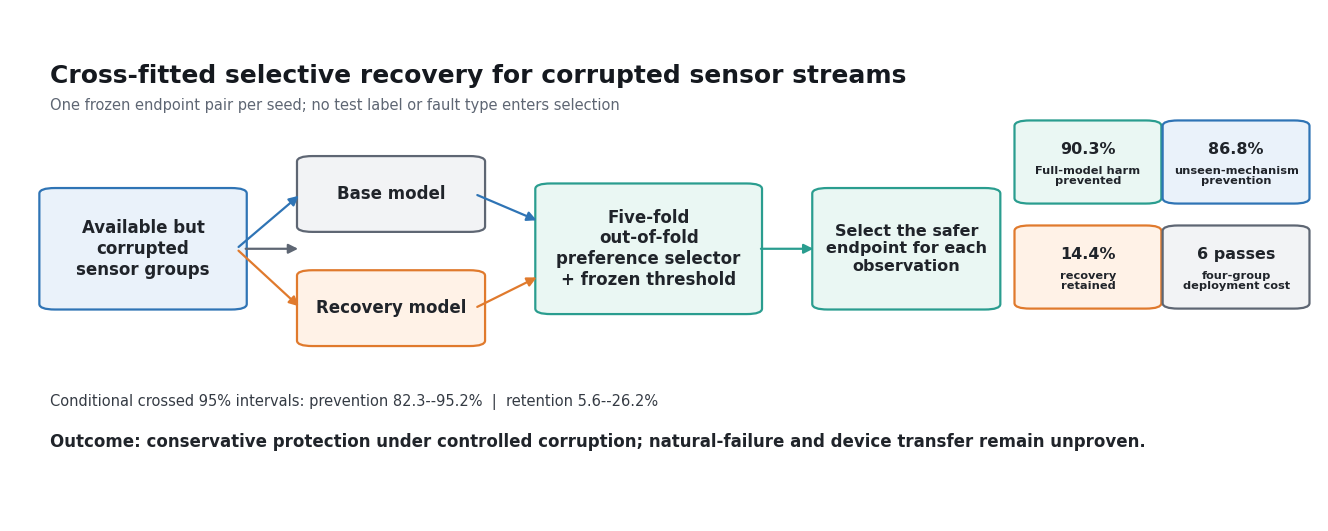
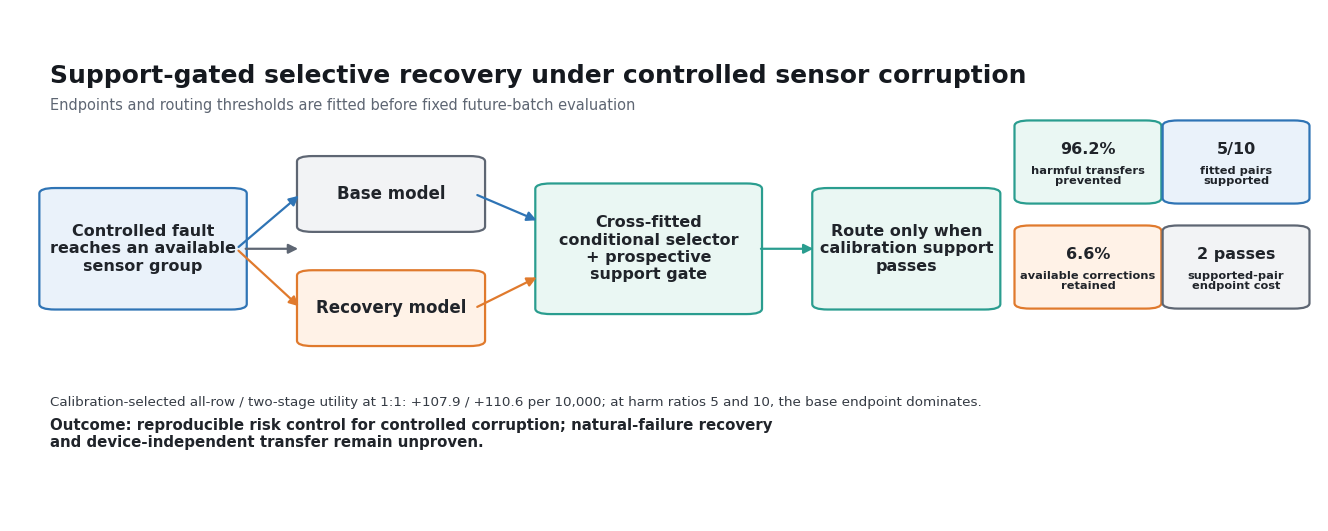
Update major-router graphical abstract

diff --git a/cee_revision/make_cee_graphical_abstract.py b/cee_revision/make_cee_graphical_abstract.py
@@ -1,14 +1,12 @@
 """Create the optional CEE graphical abstract from the frozen fact ledger."""
 
 from pathlib import Path
-import json
 
 import matplotlib.pyplot as plt
 from matplotlib.patches import FancyArrowPatch, FancyBboxPatch
 
 
 ROOT = Path(__file__).resolve().parent
-FACTS = json.loads((ROOT / "source_data" / "cee_manuscript_facts.json").read_text(encoding="utf-8"))
 OUT = ROOT / "figures" / "graphical_abstract_cee"
 
 plt.rcParams.update(
@@ -66,10 +64,10 @@ def main():
     ax.set_ylim(0, 1)
     ax.axis("off")
 
-    ax.text(0.02, 0.93, "Cross-fitted selective recovery for corrupted sensor streams", fontsize=18, fontweight="bold", color="#15191F", va="top")
-    ax.text(0.02, 0.855, "One frozen endpoint pair per seed; no test label or fault type enters selection", fontsize=10.5, color=GRAY, va="top")
+    ax.text(0.02, 0.93, "Support-gated selective recovery under controlled sensor corruption", fontsize=18, fontweight="bold", color="#15191F", va="top")
+    ax.text(0.02, 0.855, "Endpoints and routing thresholds are fitted before fixed future-batch evaluation", fontsize=10.5, color=GRAY, va="top")
 
-    box(ax, 0.02, 0.40, 0.145, 0.25, "Available but\ncorrupted\nsensor groups", BLUE, LIGHT_BLUE, size=12, weight="bold")
+    box(ax, 0.02, 0.40, 0.145, 0.25, "Controlled fault\nreaches an available\nsensor group", BLUE, LIGHT_BLUE, size=11.5, weight="bold")
     arrow(ax, 0.17, 0.525, 0.215, 0.525)
 
     box(ax, 0.22, 0.57, 0.13, 0.15, "Base model", GRAY, "#F2F3F5", size=12, weight="bold")
@@ -77,21 +75,18 @@ def main():
     arrow(ax, 0.165, 0.525, 0.215, 0.645, BLUE)
     arrow(ax, 0.165, 0.525, 0.215, 0.395, ORANGE)
 
-    box(ax, 0.405, 0.39, 0.16, 0.27, "Five-fold\nout-of-fold\npreference selector\n+ frozen threshold", TEAL, LIGHT_TEAL, size=12, weight="bold")
+    box(ax, 0.405, 0.39, 0.16, 0.27, "Cross-fitted\nconditional selector\n+ prospective\nsupport gate", TEAL, LIGHT_TEAL, size=11.5, weight="bold")
     arrow(ax, 0.35, 0.645, 0.40, 0.585, BLUE)
     arrow(ax, 0.35, 0.395, 0.40, 0.465, ORANGE)
     arrow(ax, 0.57, 0.525, 0.615, 0.525, TEAL)
 
-    box(ax, 0.62, 0.40, 0.13, 0.25, "Select the safer\nendpoint for each\nobservation", TEAL, LIGHT_TEAL, size=11.5, weight="bold")
+    box(ax, 0.62, 0.40, 0.13, 0.25, "Route only when\ncalibration support\npasses", TEAL, LIGHT_TEAL, size=11.5, weight="bold")
 
-    prevention = FACTS["crossed_intervals"]["negative_transfer_prevention"]
-    retention = FACTS["crossed_intervals"]["recovery_retention"]
-    unseen = FACTS["unseen"]
     cards = [
-        (0.775, 0.63, f"{100*prevention['bootstrap_mean']:.1f}%", "Full-model harm\nprevented", TEAL, LIGHT_TEAL),
-        (0.775, 0.40, f"{100*retention['bootstrap_mean']:.1f}%", "recovery\nretained", ORANGE, LIGHT_ORANGE),
-        (0.890, 0.63, "86.8%", "unseen-mechanism\nprevention", BLUE, LIGHT_BLUE),
-        (0.890, 0.40, "6 passes", "four-group\ndeployment cost", GRAY, "#F2F3F5"),
+        (0.775, 0.63, "96.2%", "harmful transfers\nprevented", TEAL, LIGHT_TEAL),
+        (0.775, 0.40, "6.6%", "available corrections\nretained", ORANGE, LIGHT_ORANGE),
+        (0.890, 0.63, "5/10", "fitted pairs\nsupported", BLUE, LIGHT_BLUE),
+        (0.890, 0.40, "2 passes", "supported-pair\nendpoint cost", GRAY, "#F2F3F5"),
     ]
     for x, y, value, label, edge, face in cards:
         metric_card(ax, x, y, value, label, edge, face)
@@ -99,16 +94,16 @@ def main():
     ax.text(
         0.02,
         0.18,
-        f"Conditional crossed 95% intervals: prevention {100*prevention['ci_2.5']:.1f}--{100*prevention['ci_97.5']:.1f}%  |  "
-        f"retention {100*retention['ci_2.5']:.1f}--{100*retention['ci_97.5']:.1f}%",
-        fontsize=10.5,
+        "Calibration-selected all-row / two-stage utility at 1:1: +107.9 / +110.6 per 10,000; at harm ratios 5 and 10, the base endpoint dominates.",
+        fontsize=9.7,
         color="#353B44",
     )
     ax.text(
         0.02,
         0.09,
-        "Outcome: conservative protection under controlled corruption; natural-failure and device transfer remain unproven.",
-        fontsize=12,
+        "Outcome: reproducible risk control for controlled corruption; natural-failure recovery\n"
+        "and device-independent transfer remain unproven.",
+        fontsize=10.8,
         fontweight="bold",
         color="#20242A",
     )

diff --git a/cee_revision/GRAPHICAL_ABSTRACT_CONTRACT.md b/cee_revision/GRAPHICAL_ABSTRACT_CONTRACT.md
@@ -1,0 +1,6 @@
+# Graphical abstract contract
+
+- Conclusion: the prospective support gate prevents most recovery-induced harmful transfers but retains few available corrections; utility depends on the declared harm ratio.
+- Evidence logic: controlled available-group corruption -> fixed base/recovery endpoints -> cross-fitted conditional selector -> prospective support gate -> prevention, retention, supported-pair and compute summaries.
+- Export: 1328 x 531 PNG, editable PDF/SVG and 500-dpi LZW TIFF.
+- Review risks: do not imply natural field failure, universal transport or a calibrated health probability; keep all arrows separated and all text inside boxes.